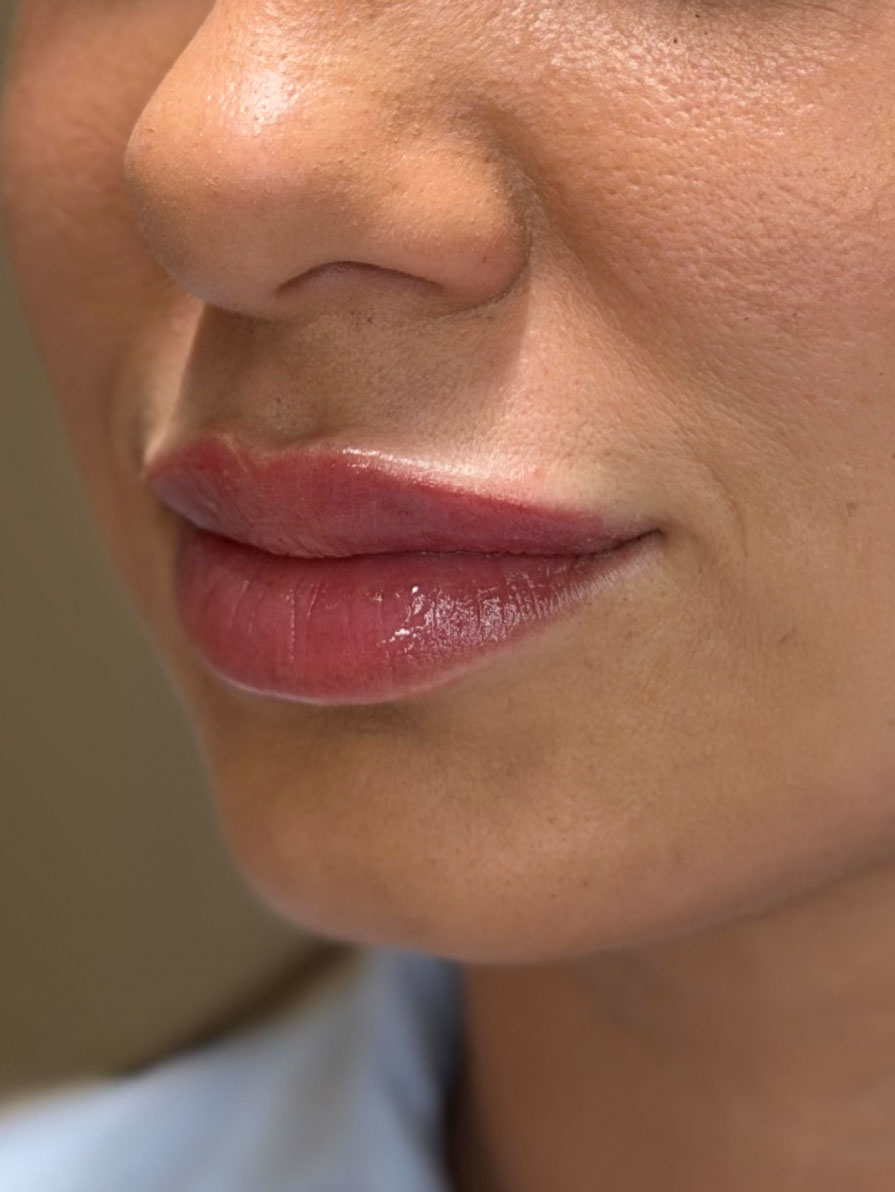
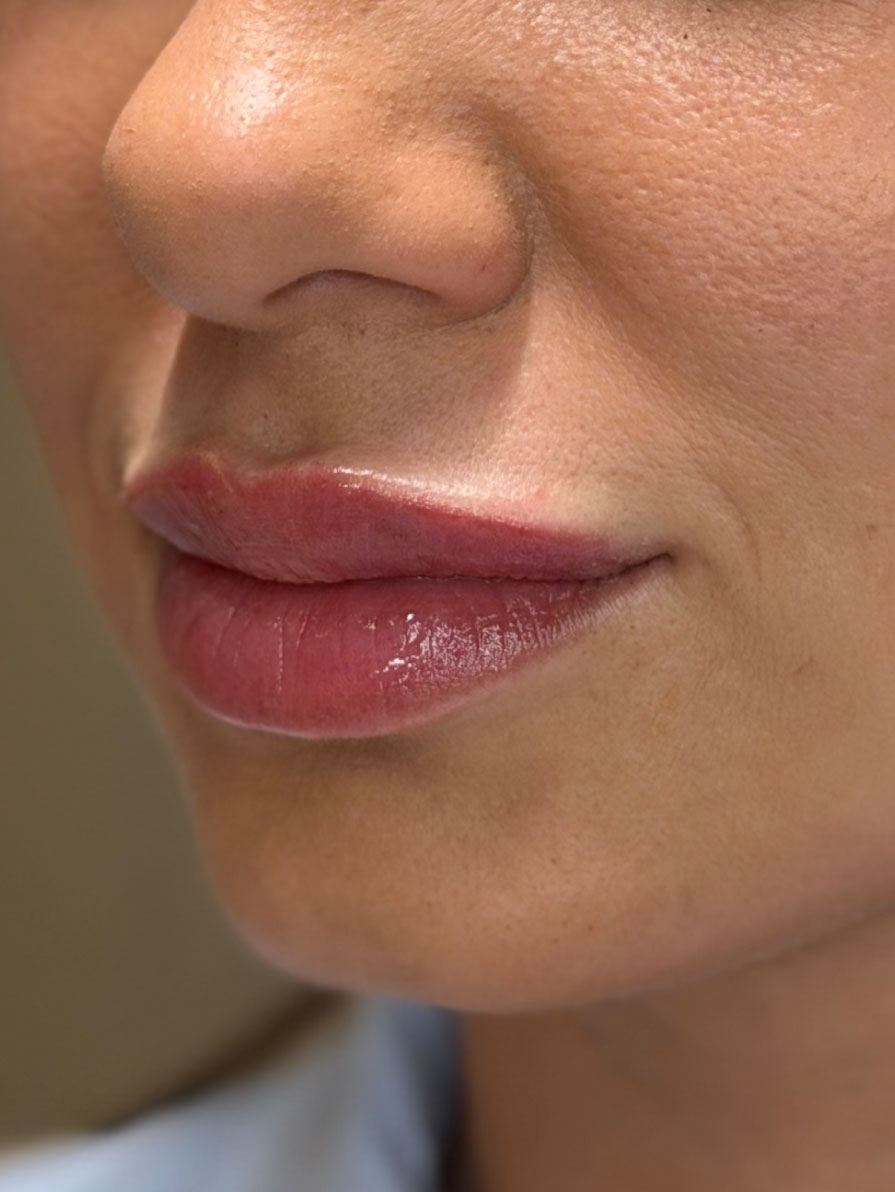
Add Brotox and Full face 2 result images, center last row
5 before/after pairs total. Grid uses 6-col trick to center
the last 2 items on desktop.

diff --git a/index.html b/index.html
@@ -687,6 +687,46 @@
         </div>
         <div class="result-label" data-i18n="r3_label">Fileri - Full face</div>
       </div>
+
+      <div class="result-item fade-up">
+        <div class="result-imgs">
+          <div class="result-img-wrap">
+            <picture>
+              <source srcset="images/before-after/brotox-pre.webp" type="image/webp">
+              <img src="images/before-after/brotox-pre.jpg" alt="Brotox - prije">
+            </picture>
+            <span class="result-badge before" data-i18n="badge_before">Prije</span>
+          </div>
+          <div class="result-img-wrap">
+            <picture>
+              <source srcset="images/before-after/brotox-posle.webp" type="image/webp">
+              <img src="images/before-after/brotox-posle.jpg" alt="Brotox - poslije">
+            </picture>
+            <span class="result-badge after" data-i18n="badge_after">Poslije</span>
+          </div>
+        </div>
+        <div class="result-label" data-i18n="r4_label">Brotox</div>
+      </div>
+
+      <div class="result-item fade-up">
+        <div class="result-imgs">
+          <div class="result-img-wrap">
+            <picture>
+              <source srcset="images/before-after/ff2-pre.webp" type="image/webp">
+              <img src="images/before-after/ff2-pre.jpg" alt="Fileri full face - prije">
+            </picture>
+            <span class="result-badge before" data-i18n="badge_before">Prije</span>
+          </div>
+          <div class="result-img-wrap">
+            <picture>
+              <source srcset="images/before-after/ff2-posle.webp" type="image/webp">
+              <img src="images/before-after/ff2-posle.jpg" alt="Fileri full face - poslije">
+            </picture>
+            <span class="result-badge after" data-i18n="badge_after">Poslije</span>
+          </div>
+        </div>
+        <div class="result-label" data-i18n="r5_label">Fileri - Full face</div>
+      </div>
     </div>
 
     <div class="results-cta fade-up">

diff --git a/js/main.js b/js/main.js
@@ -66,6 +66,8 @@ const translations = {
     r1_label: 'Hijaluronski Fileri - Usne',
     r2_label: 'Botoks - Čelo',
     r3_label: 'Fileri - Full face',
+    r4_label: 'Brotox',
+    r5_label: 'Fileri - Full face',
     results_ig_cta: 'Više rezultata i radova pogledajte na našem <strong>Instagram</strong> profilu',
 
     test_tag: 'Utisci',
@@ -180,6 +182,8 @@ const translations = {
     r1_label: 'Hyaluronic Fillers - Lips',
     r2_label: 'Botox - Forehead',
     r3_label: 'Fillers - Full face',
+    r4_label: 'Brotox',
+    r5_label: 'Fillers - Full face',
     results_ig_cta: 'See more results and work on our <strong>Instagram</strong> profile',
 
     test_tag: 'Testimonials',

diff --git a/css/gallery.css b/css/gallery.css
@@ -16,8 +16,20 @@
 
 .results-grid {
   display: grid;
-  grid-template-columns: repeat(3, 1fr);
+  grid-template-columns: repeat(6, 1fr);
   gap: 2rem;
+}
+
+.result-item {
+  grid-column: span 2;
+}
+
+.results-grid .result-item:nth-child(4) {
+  grid-column: 2 / 4;
+}
+
+.results-grid .result-item:nth-child(5) {
+  grid-column: 4 / 6;
 }
 
 .result-item {

diff --git a/css/responsive.css b/css/responsive.css
@@ -159,6 +159,12 @@
     gap: 2rem;
   }
 
+  .result-item,
+  .results-grid .result-item:nth-child(4),
+  .results-grid .result-item:nth-child(5) {
+    grid-column: 1 / -1;
+  }
+
   /* Testimonials */
   .test-grid {
     grid-template-columns: 1fr;
